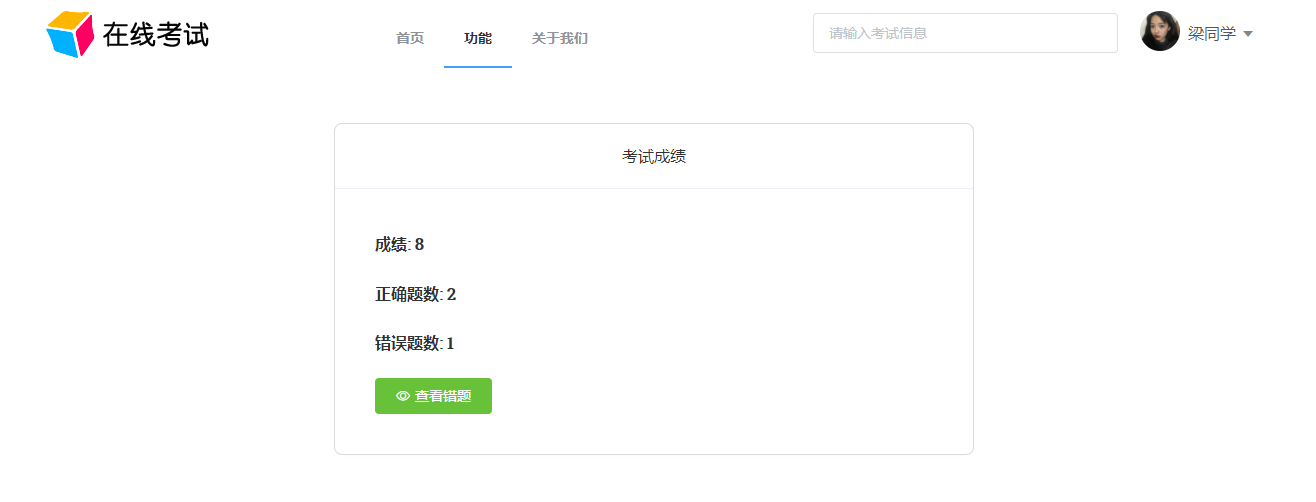
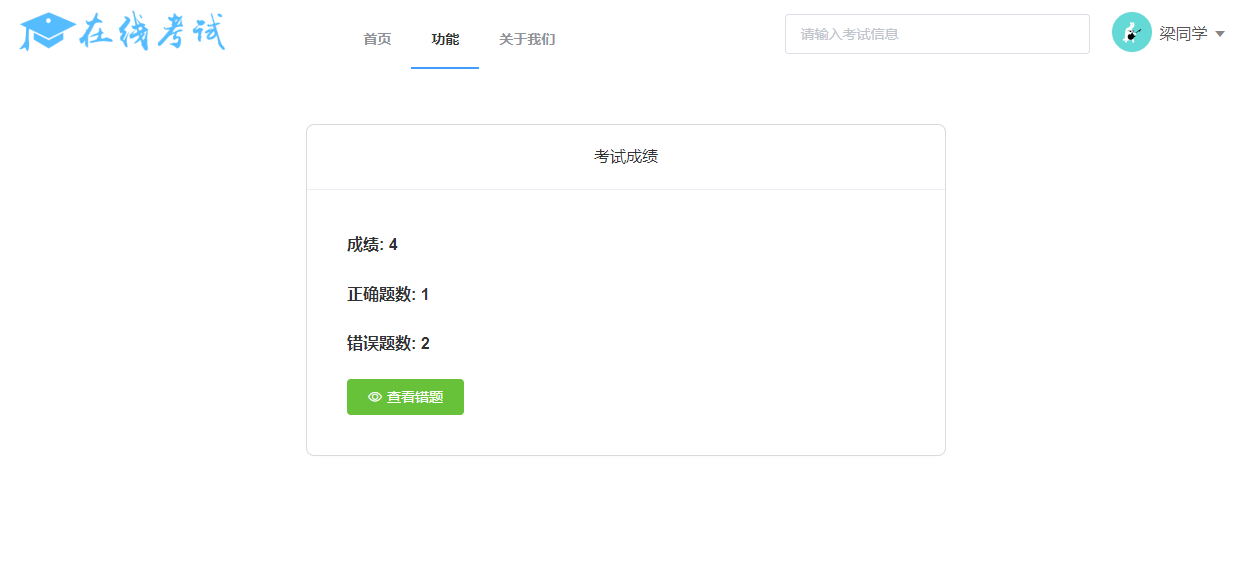
调整logo

diff --git a/README.md b/README.md
@@ -59,8 +59,6 @@
 
 ![image](doc/images/image_web_incorrect_answer.png)
 
-![image](doc/images/image_web_practices.png)
-
 后台
 
 ![image](doc/images/image_admin_menu.png)
